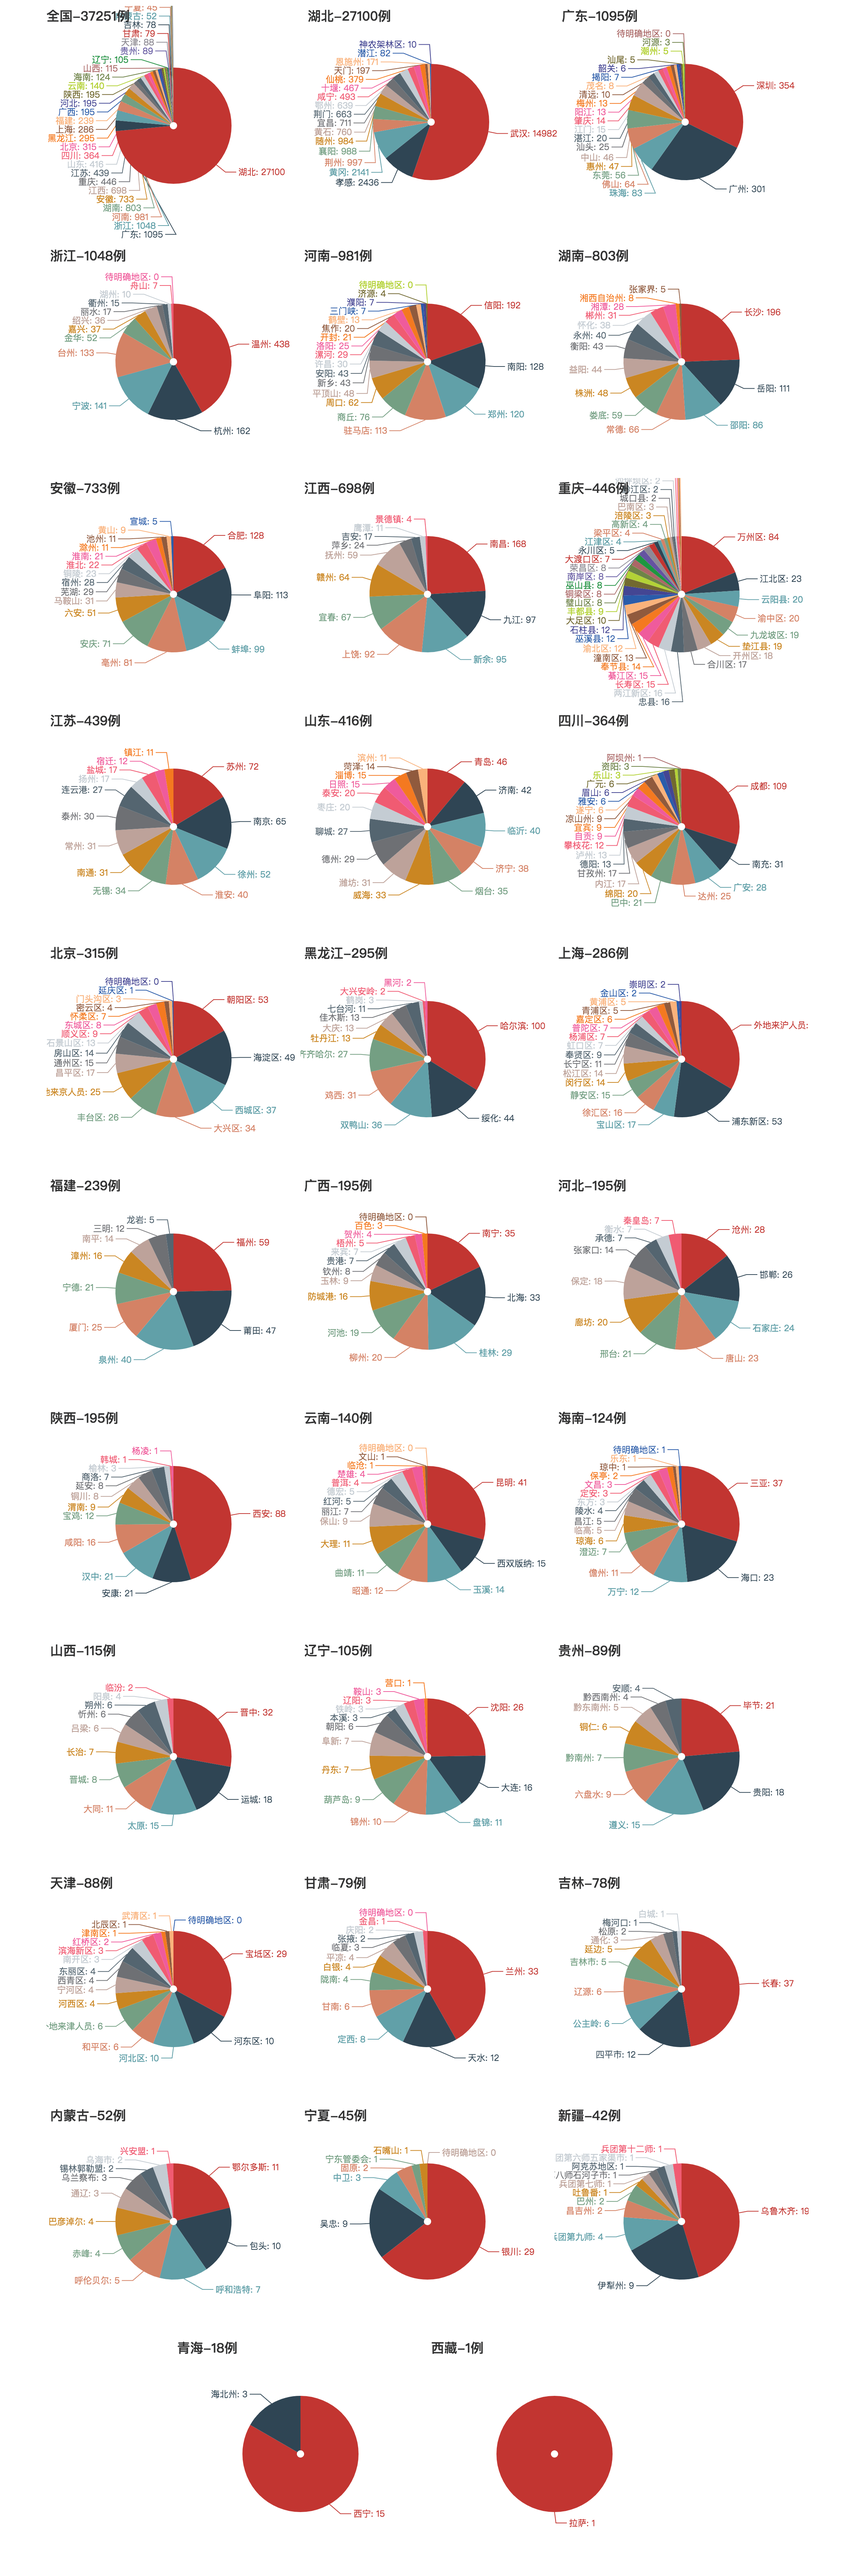
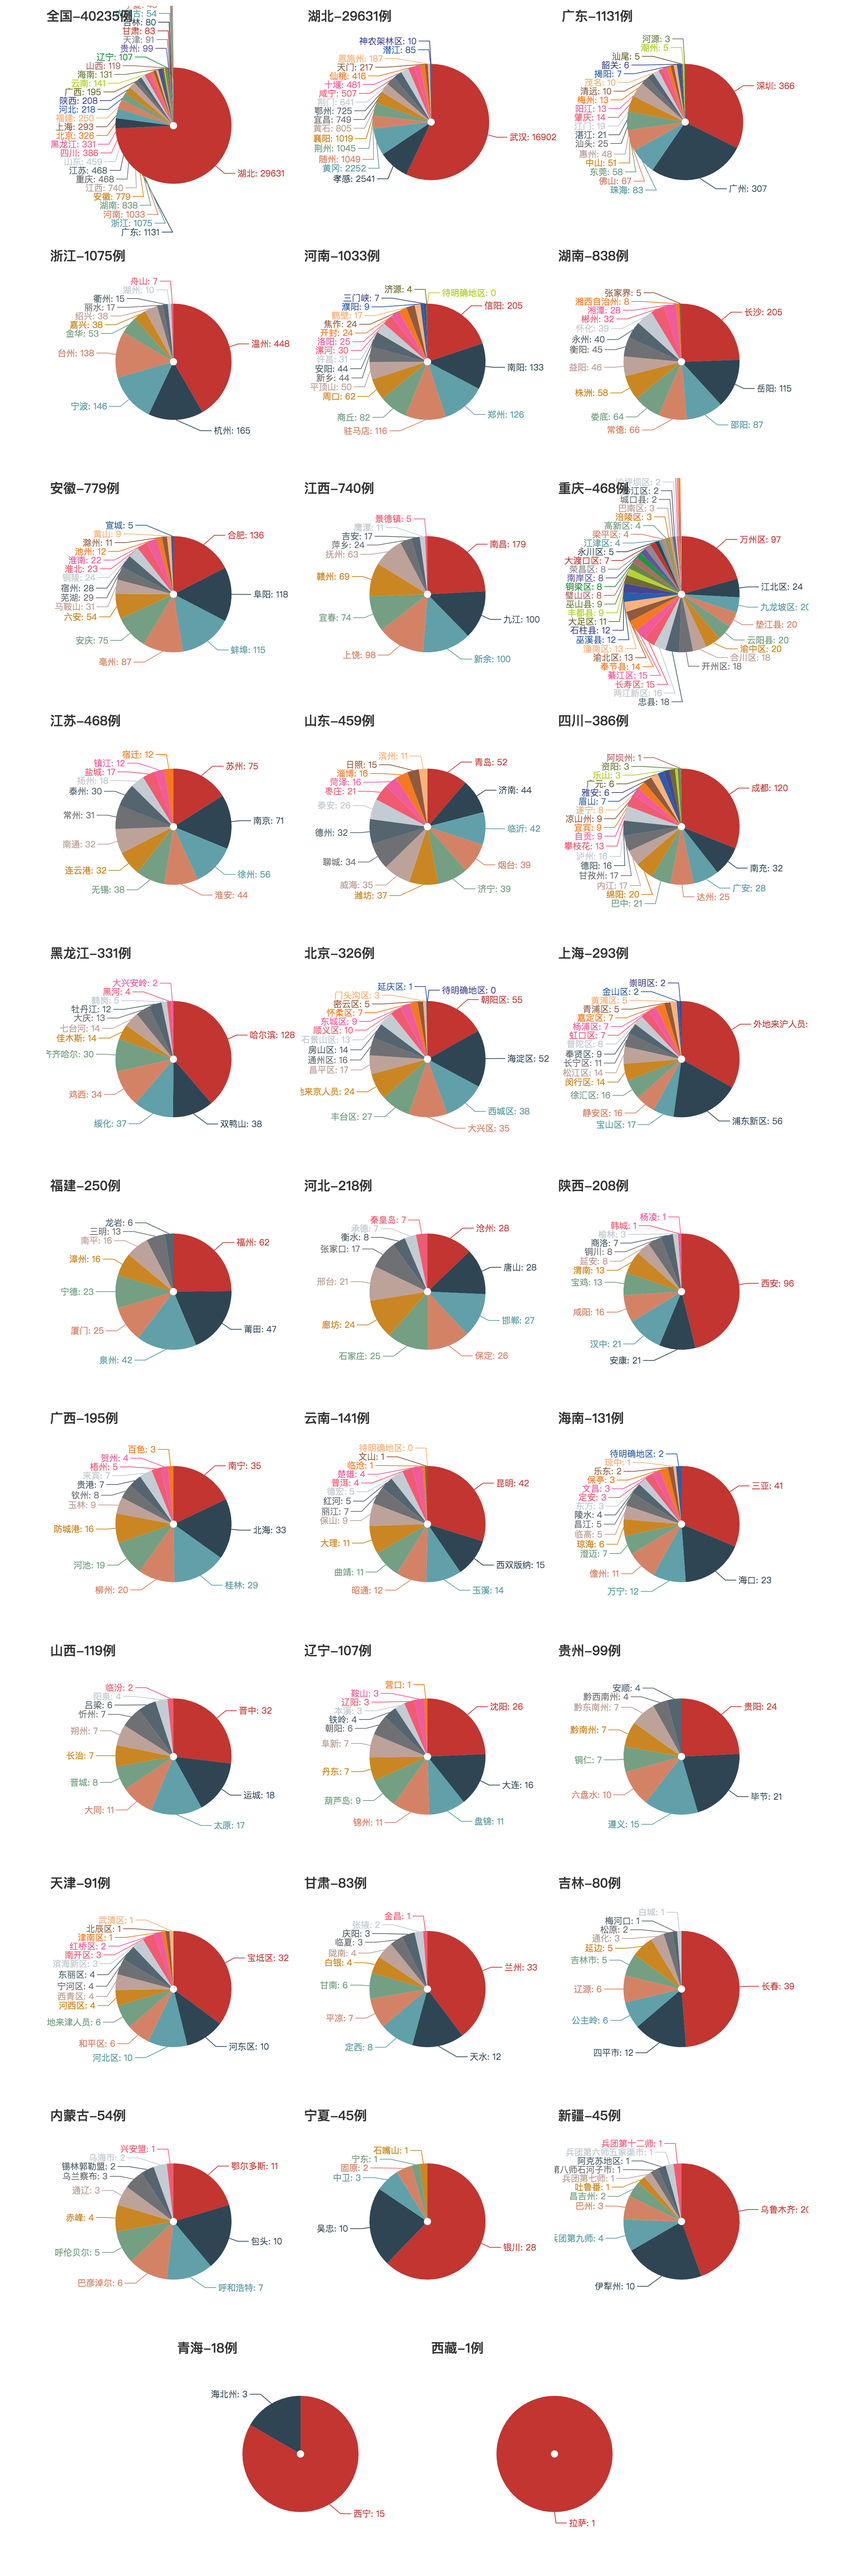
update result

diff --git a/main.py b/main.py
@@ -92,9 +92,9 @@ def get_html(month, day):
 
 def draw_tendency(month, day):
     dates = ['1-22', '1-23', '1-24', '1-25', '1-26', '1-27', '1-28',
-             '1-29', '1-30', '1-31', '2-01', '2-02', '2-04', '2-05', '2-06', '2-07', '2-08']
-    v0 = [131, 259, 444, 688, 769, 1771, 1459, 1737, 1982, 2102, 2590, 2829, 3235, 3887, 3143, 3399, 2656]
-    v1 = [69, 105, 180, 323, 371, 1291, 840, 1032, 1220, 1347, 1921, 2103, 2345, 3156, 2447, 2841, 2147]
+             '1-29', '1-30', '1-31', '2-01', '2-02', '2-04', '2-05', '2-06', '2-07', '2-08', '2-09']
+    v0 = [131, 259, 444, 688, 769, 1771, 1459, 1737, 1982, 2102, 2590, 2829, 3235, 3887, 3143, 3399, 2656, 3062]
+    v1 = [69, 105, 180, 323, 371, 1291, 840, 1032, 1220, 1347, 1921, 2103, 2345, 3156, 2447, 2841, 2147, 2618]
     v2 = [v0[i] - v1[i] for i in range(len(v0))]
 
     c = (
@@ -249,7 +249,7 @@ def draw_multiple_pie(month, day):
 
 
 if __name__ == '__main__':
-    m, d = 2, 9
+    m, d = 2, 10
     get_html(m, d)
     draw_tendency(m, d)
     draw_multiple_pie(m, d)

diff --git a/README.md b/README.md
@@ -13,13 +13,15 @@
 - 更新：2020.2.07 08:34 今天凌晨李文亮医生过世了，希望天堂没有病痛。
 - 更新：2020.2.08 08:31 除湖北省外，其他省份的新增确诊已经连续四天在下降了。湖北加油！
 - 更新：2020.2.09 09:01 今天湖北省的新增确诊也明显下降了，其他省份也持续在降，开心啊
+- 更新：2020.2.10 08:33
+
+# 全国新增病例增长趋势
+![image](https://github.com/shadow12138/WuHanGanBaDei/blob/master/result/r3.png)
+
 
 # 全国/各省份疫情地图
 ![image](https://github.com/shadow12138/WuHanGanBaDei/blob/master/result/r1.png)
 
 # 全国/各省份疫情统计图
 ![image](https://github.com/shadow12138/WuHanGanBaDei/blob/master/result/r2.png)
-
-# 全国新增病例增长趋势
-![image](https://github.com/shadow12138/WuHanGanBaDei/blob/master/result/r3.png)
 
